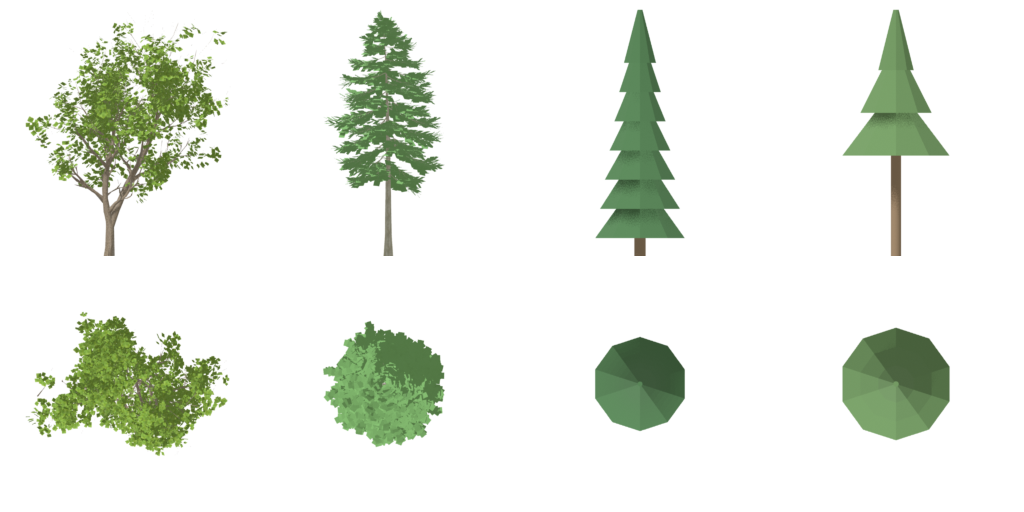
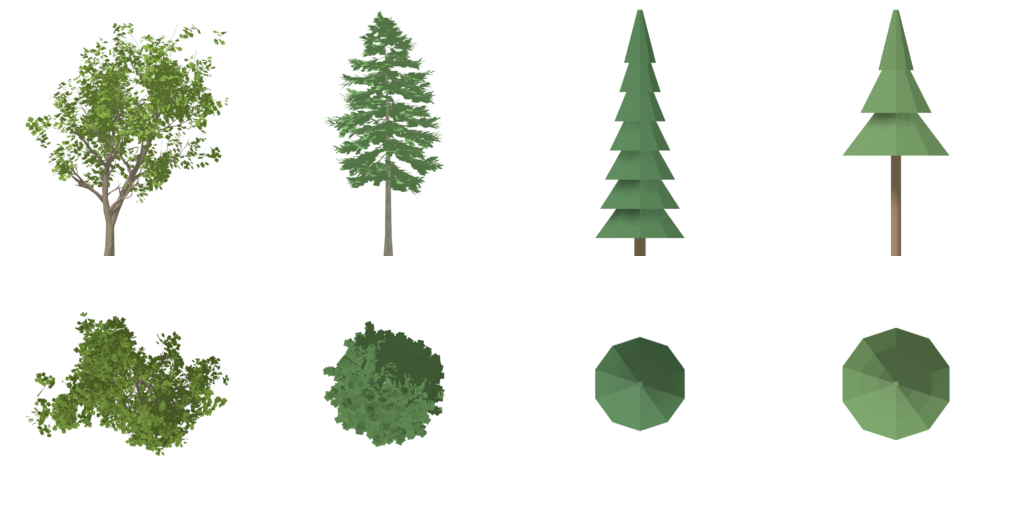
Trees sway only with wind and the canopy card matches the tree; the comma key survives keyboard.cfg (parking brake releases again on the Cessna and PC-7)
keyboard.cfg writes two keys as "Q, PageUp"; the loader split a lone ","
into nothing, the next save wrote it back empty, and brakes_off (and the
editor's heading keys) were unbound on every start. split_chords keeps a
comma chord whole and restores comma-key defaults stored empty or as a
bare modifier by older builds. tests/smoke_parking_brake presses the key on
both aircraft and checks they roll under power.

Changed region(s): [[0.0312, 0.625, 0.2188, 0.875], [0.3125, 0.625, 0.4375, 0.875]]

diff --git a/src/key_bindings.cpp b/src/key_bindings.cpp
@@ -795,6 +795,33 @@ void KeyBindings::save()
 		UtilityFunctions::print("KeyBindings: saved ", path);
 }
 
+// The file writes two keys as "Q, PageUp". The comma key itself ("," for the
+// brakes, "Shift+," in the editor) must survive that: a lone comma chord is
+// one key, "," + ", " + "PageUp" is two, and a hand-written "Q,PageUp"
+// without the space still reads (gery 2026-11-08: the brakes_off key came
+// back unbound on every start, so the Cessna and the PC-7 never left the
+// parking brake).
+PackedStringArray KeyBindings::split_chords(const String &value)
+{
+	PackedStringArray out;
+	const String s = value.strip_edges();
+	if (s.is_empty())
+		return out;
+	if (s.contains(", "))
+	{
+		const PackedStringArray parts = s.split(", ", false);
+		for (int i = 0; i < parts.size(); i++)
+			out.push_back(parts[i]);
+		return out;
+	}
+	if (s == "," || s.ends_with("+,"))
+	{
+		out.push_back(s);
+		return out;
+	}
+	return s.split(",", false);
+}
+
 void KeyBindings::load()
 {
 	reset_to_defaults();
@@ -816,9 +843,23 @@ void KeyBindings::load()
 		if (!cf->has_section_key(a.section, String(a.id)))
 			continue;
 		const String v = cf->get_value(a.section, String(a.id), "");
-		const PackedStringArray parts = v.split(",", false);
+		const PackedStringArray parts = split_chords(v);
 		for (int i = 0; i < SLOTS; i++)
 			a.keys[i] = i < parts.size() ? KeyChord::parse(parts[i]) : KeyChord();
+		// Files saved by builds before 2026-11-08 lost every comma key: the
+		// loader split "," into nothing and the next save wrote it back empty.
+		// An empty entry whose default is the comma key takes the default again.
+		bool comma_default = false;
+		for (int i = 0; i < SLOTS; i++)
+			comma_default = comma_default || (a.defaults[i].is_bound() && a.defaults[i].key == KEY_COMMA);
+		// ("Shift+," came back as a bare "Shift" the same way.)
+		const bool broken = parts.is_empty() || (parts.size() == 1 && is_modifier_key(KeyChord::parse(parts[0]).key) && !is_modifier_key(a.defaults[0].key));
+		if (broken && comma_default)
+		{
+			for (int i = 0; i < SLOTS; i++)
+				a.keys[i] = a.defaults[i];
+			UtilityFunctions::print("KeyBindings: ", String(a.id), " was stored empty; its comma key is back (", a.keys[0].to_string(), ")");
+		}
 		stored[ai] = true;
 		n++;
 	}

diff --git a/scripts/trees/bake_tree_cards.py b/scripts/trees/bake_tree_cards.py
@@ -181,8 +181,23 @@ for col, sp in enumerate(species):
     render(scene, (cx, lo.y - extent * 2, lo.z + extent / 2), (math.radians(90), 0, 0), extent, side_png)
     # top: straight down
     render(scene, (cx, cy, hi.z + extent * 2), (0, 0, 0), extent, top_png)
-    atlas[0:PX, col * PX:(col + 1) * PX] = load_rgba(side_png)
-    atlas[PX:2 * PX, col * PX:(col + 1) * PX] = load_rgba(top_png)
+    side = load_rgba(side_png)
+    top = load_rgba(top_png)
+    # The canopy card must read as part of the same tree: match its mean
+    # luminance to the side card's (the top view catches the full sun and came
+    # out a pale disc over the forest, gery 2026-11-08), a touch darker since
+    # the crown's top is seen against sunlit cards' edges.
+    def mean_lum(img):
+        a = img[..., 3] > 0.5
+        rgb = img[..., :3][a]
+        return float((rgb @ np.array([0.2126, 0.7152, 0.0722])).mean()) if len(rgb) else 1.0
+    ls, lt = mean_lum(side), mean_lum(top)
+    if lt > 1e-3:
+        top = top.copy()
+        top[..., :3] = np.clip(top[..., :3] * (0.9 * ls / lt), 0.0, 1.0)
+    atlas[0:PX, col * PX:(col + 1) * PX] = side
+    atlas[PX:2 * PX, col * PX:(col + 1) * PX] = top
+    print(f"  {sp['name']}: side luminance {ls:.3f}, top {lt:.3f} -> scaled to {0.9 * ls:.3f}")
     crown_ratio = round(float(max(size.x, size.y) / size.z), 3) if size.z > 0 else sp.get("crown_ratio", 0.6)
     meta.append({"name": sp["name"], "conifer": bool(sp.get("conifer", False)),
                  "height_m": sp.get("height_m", 20), "crown_ratio": crown_ratio,

diff --git a/src/key_bindings.h b/src/key_bindings.h
@@ -140,6 +140,7 @@ namespace jsbgodot
         String config_path;
 
         static Table *active();
+        static godot::PackedStringArray split_chords(const godot::String &value);
         static Table *installed;
         static bool mods_known;
         static bool mod_shift, mod_ctrl, mod_alt;

diff --git a/docs/WORLD_SCENERY_DESIGN.md b/docs/WORLD_SCENERY_DESIGN.md
@@ -2291,6 +2291,13 @@ Order: 2 + 3 first with a placeholder atlas rendered from the existing tree
   far counts, ranges, shared material, altitude mix, heights, snapping,
   density). Settings > Graphics > Tree density keeps its five steps.
 
+Test flight 2026-11-08 (gery): the trees swayed in calm air and the canopy
+card read as a pale disc, "a foreign part". Fixes: the sway amplitude is the
+weather's wind (`set_wind_speed_mps`, node_3d.gd polls the FDM's
+`atmosphere/wind-mag-fps` twice a second; zero in calm air), the canopy
+card's mean luminance is matched to the side card at bake time (0.9 ×) and
+it fades in only on steep views (view elevation 0.5-0.8).
+
 Open: BlenderKit species (CC0 / royalty-free pines, spruce, birch) through
 the same bake; forests outside Switzerland from OSM polygons (step 4);
 SRTM measures the canopy in forests, so the ground under a forest is
